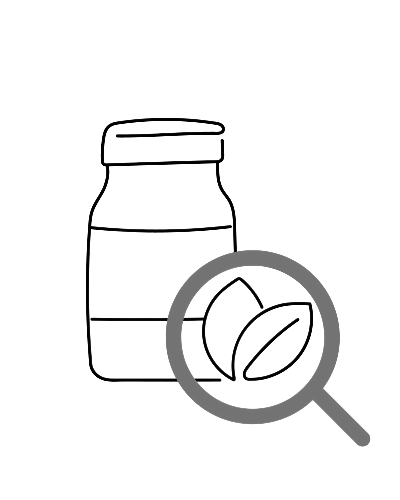
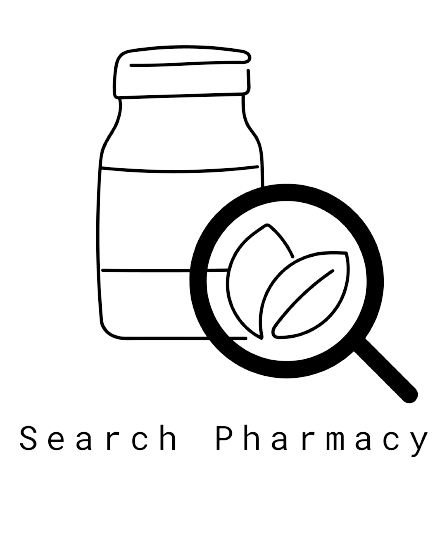
re-adjusting components

Changed region(s): [[0.21, 0.06, 0.96, 0.9], [0.03, 0.75, 0.21, 0.81]]

diff --git a/src/pages/Home/Home.tsx b/src/pages/Home/Home.tsx
@@ -1,6 +1,7 @@
 import React from 'react';
 import { ShowButton} from '../../components';
-
+import { FontAwesomeIcon } from '@fortawesome/react-fontawesome'
+import { faCapsules, faHouseMedical, faReceipt } from '@fortawesome/free-solid-svg-icons'
 
 const Home = (): JSX.Element => {
     return (
@@ -9,7 +10,7 @@ const Home = (): JSX.Element => {
             <section className="bg-warning">
                 <div className="flex justify-center flex-wrap">
                     <div className="card card-side bg-base-300 shadow-xl w-full sm:w-3/4 my-1 sm:mx-1">
-                        <figure className="w-16"><img src="https://github.com/gauravghongde/social-icons/blob/master/PNG/Black/Ethereum_black.png?raw=true" alt="Movie"/></figure>
+                        <figure className="w-16"><FontAwesomeIcon icon={faCapsules} beatFade size="xl"/></figure>
                         <div className="card-body">
                             <h2 className="card-title">Search Medicines</h2>
                             <p>Click the button to check feature.</p>
@@ -20,7 +21,7 @@ const Home = (): JSX.Element => {
                     </div>
 
                     <div className="card card-side bg-base-300 shadow-xl w-full sm:w-3/4 my-1 sm:mx-1">
-                        <figure className="w-16"><img src="https://github.com/gauravghongde/social-icons/blob/master/PNG/Black/Ethereum_black.png?raw=true" alt="Movie"/></figure>
+                        <figure className="w-16"><FontAwesomeIcon icon={faHouseMedical} beatFade size="xl"/></figure>
                         <div className="card-body">
                             <h2 className="card-title">On-Duty Pharmacies.</h2>
                             <p>Click the button to check on-duty pharmacies.</p>
@@ -31,7 +32,7 @@ const Home = (): JSX.Element => {
                     </div>
 
                     <div className="card card-side bg-base-300 shadow-xl w-full sm:w-3/4 my-1 sm:mx-1">
-                        <figure className="w-16"><img src="https://github.com/gauravghongde/social-icons/blob/master/PNG/Black/Ethereum_black.png?raw=true" alt="Movie"/></figure>
+                        <figure className="w-16"><FontAwesomeIcon icon={faReceipt} beatFade size="lg" /></figure>
                         <div className="card-body">
                             <h2 className="card-title">Check Medicine Content</h2>
                             <p>Click the button to check feature.</p>

diff --git a/src/pages/DutyPharmacy/DutyPharmacy.tsx b/src/pages/DutyPharmacy/DutyPharmacy.tsx
@@ -2,7 +2,8 @@ import React, {useEffect, useState} from 'react';
 import {GetDutyPharmacyDetail} from "../../api/DutyPharmacyController.types";
 import API from "../../api";
 import { BasicTable } from './component/Table';
-import Loading from "../../components/Loading";
+import { Loading } from '../../components';
+import image from "../../images/image2.png";
 
 const DutyPharmacy = (): JSX.Element => {
     const [pharmacy, setPharmacy] = useState<GetDutyPharmacyDetail[]>([]);
@@ -23,6 +24,8 @@ const DutyPharmacy = (): JSX.Element => {
 
     const [selected, setSelected] = useState(false);
     const [loading, setLoading] = useState(false);
+    // When province&district is not selected then do not show the table
+    const [state, setState] = useState(false);
 
     useEffect(() => {
         (async () => {
@@ -34,6 +37,7 @@ const DutyPharmacy = (): JSX.Element => {
         })()
     }, [county]);
 
+    console.log(pharmacy);
 
     // Getting the provinces of Turkey
     useEffect(() => {
@@ -64,7 +68,6 @@ const DutyPharmacy = (): JSX.Element => {
                         setSelected(true)
                     }}
                     onClick={() => {
-                        console.log(city);
                         return handleDistricts(city);
                     }}
                 >
@@ -85,6 +88,7 @@ const DutyPharmacy = (): JSX.Element => {
                     disabled={!selected}
                     onChange={(event) => {
                         setCounty(event.target.value)
+                        setState(true)
                     }}
                 >
                     <option disabled selected>Pick your district</option>
@@ -100,9 +104,11 @@ const DutyPharmacy = (): JSX.Element => {
 
             </div>
 
-            {loading ? <Loading fullscreen /> : (
-                <BasicTable headers={["Name","Address","Telephone","Map"]} data={pharmacy}/>
-            )}
+            {state ? (
+                loading ? <Loading fullscreen /> : (
+                        <BasicTable headers={["Name","Address","Telephone","Map"]} data={pharmacy}/>
+                    )
+            ) : (<img className="mx-auto my-auto" src={image} alt="Search Pharmacy" />)}
 
         </section>
     );

diff --git a/src/pages/MedicineContent/MedicineContent.tsx b/src/pages/MedicineContent/MedicineContent.tsx
@@ -32,7 +32,7 @@ const MedicineContent = (): JSX.Element => {
                 searchedMedicine.map((item) => (
                     <Collapse content={item}/>
                 ))
-            ) : <img className="mx-auto my-auto" src={image} alt="Search Medicine"/>}
+            ) : <img className="mx-auto" src={image} alt="Search Medicine"/>}
 
         </React.Fragment>
     );

diff --git a/src/pages/DutyPharmacy/component/Table/BasicTable.tsx b/src/pages/DutyPharmacy/component/Table/BasicTable.tsx
@@ -24,7 +24,7 @@ const BasicTable = ({headers, data}: TableProps) => {
 
     return (
         <div className="overflow-x-auto">
-            <table className="table mx-auto my-5">
+            <table className="table mx-auto my-10">
                 <thead>
                 <tr>
                     {headers.map((header, index) => (

diff --git a/src/components/index.ts b/src/components/index.ts
@@ -2,3 +2,4 @@ export * from "./Buttons";
 export { default as Navbar } from "./NavBar";
 export { default as Footer } from "./Footer";
 export { default as SearchField } from "./SearchField";
+export { default as Loading, PureLoading } from "./Loading";

diff --git a/src/App.tsx b/src/App.tsx
@@ -38,7 +38,7 @@ function App(): JSX.Element {
                 </BrowserRouter>
             </div>
 
-            <Footer />
+            { /*<Footer />*/}
         </section>
     );
 }
